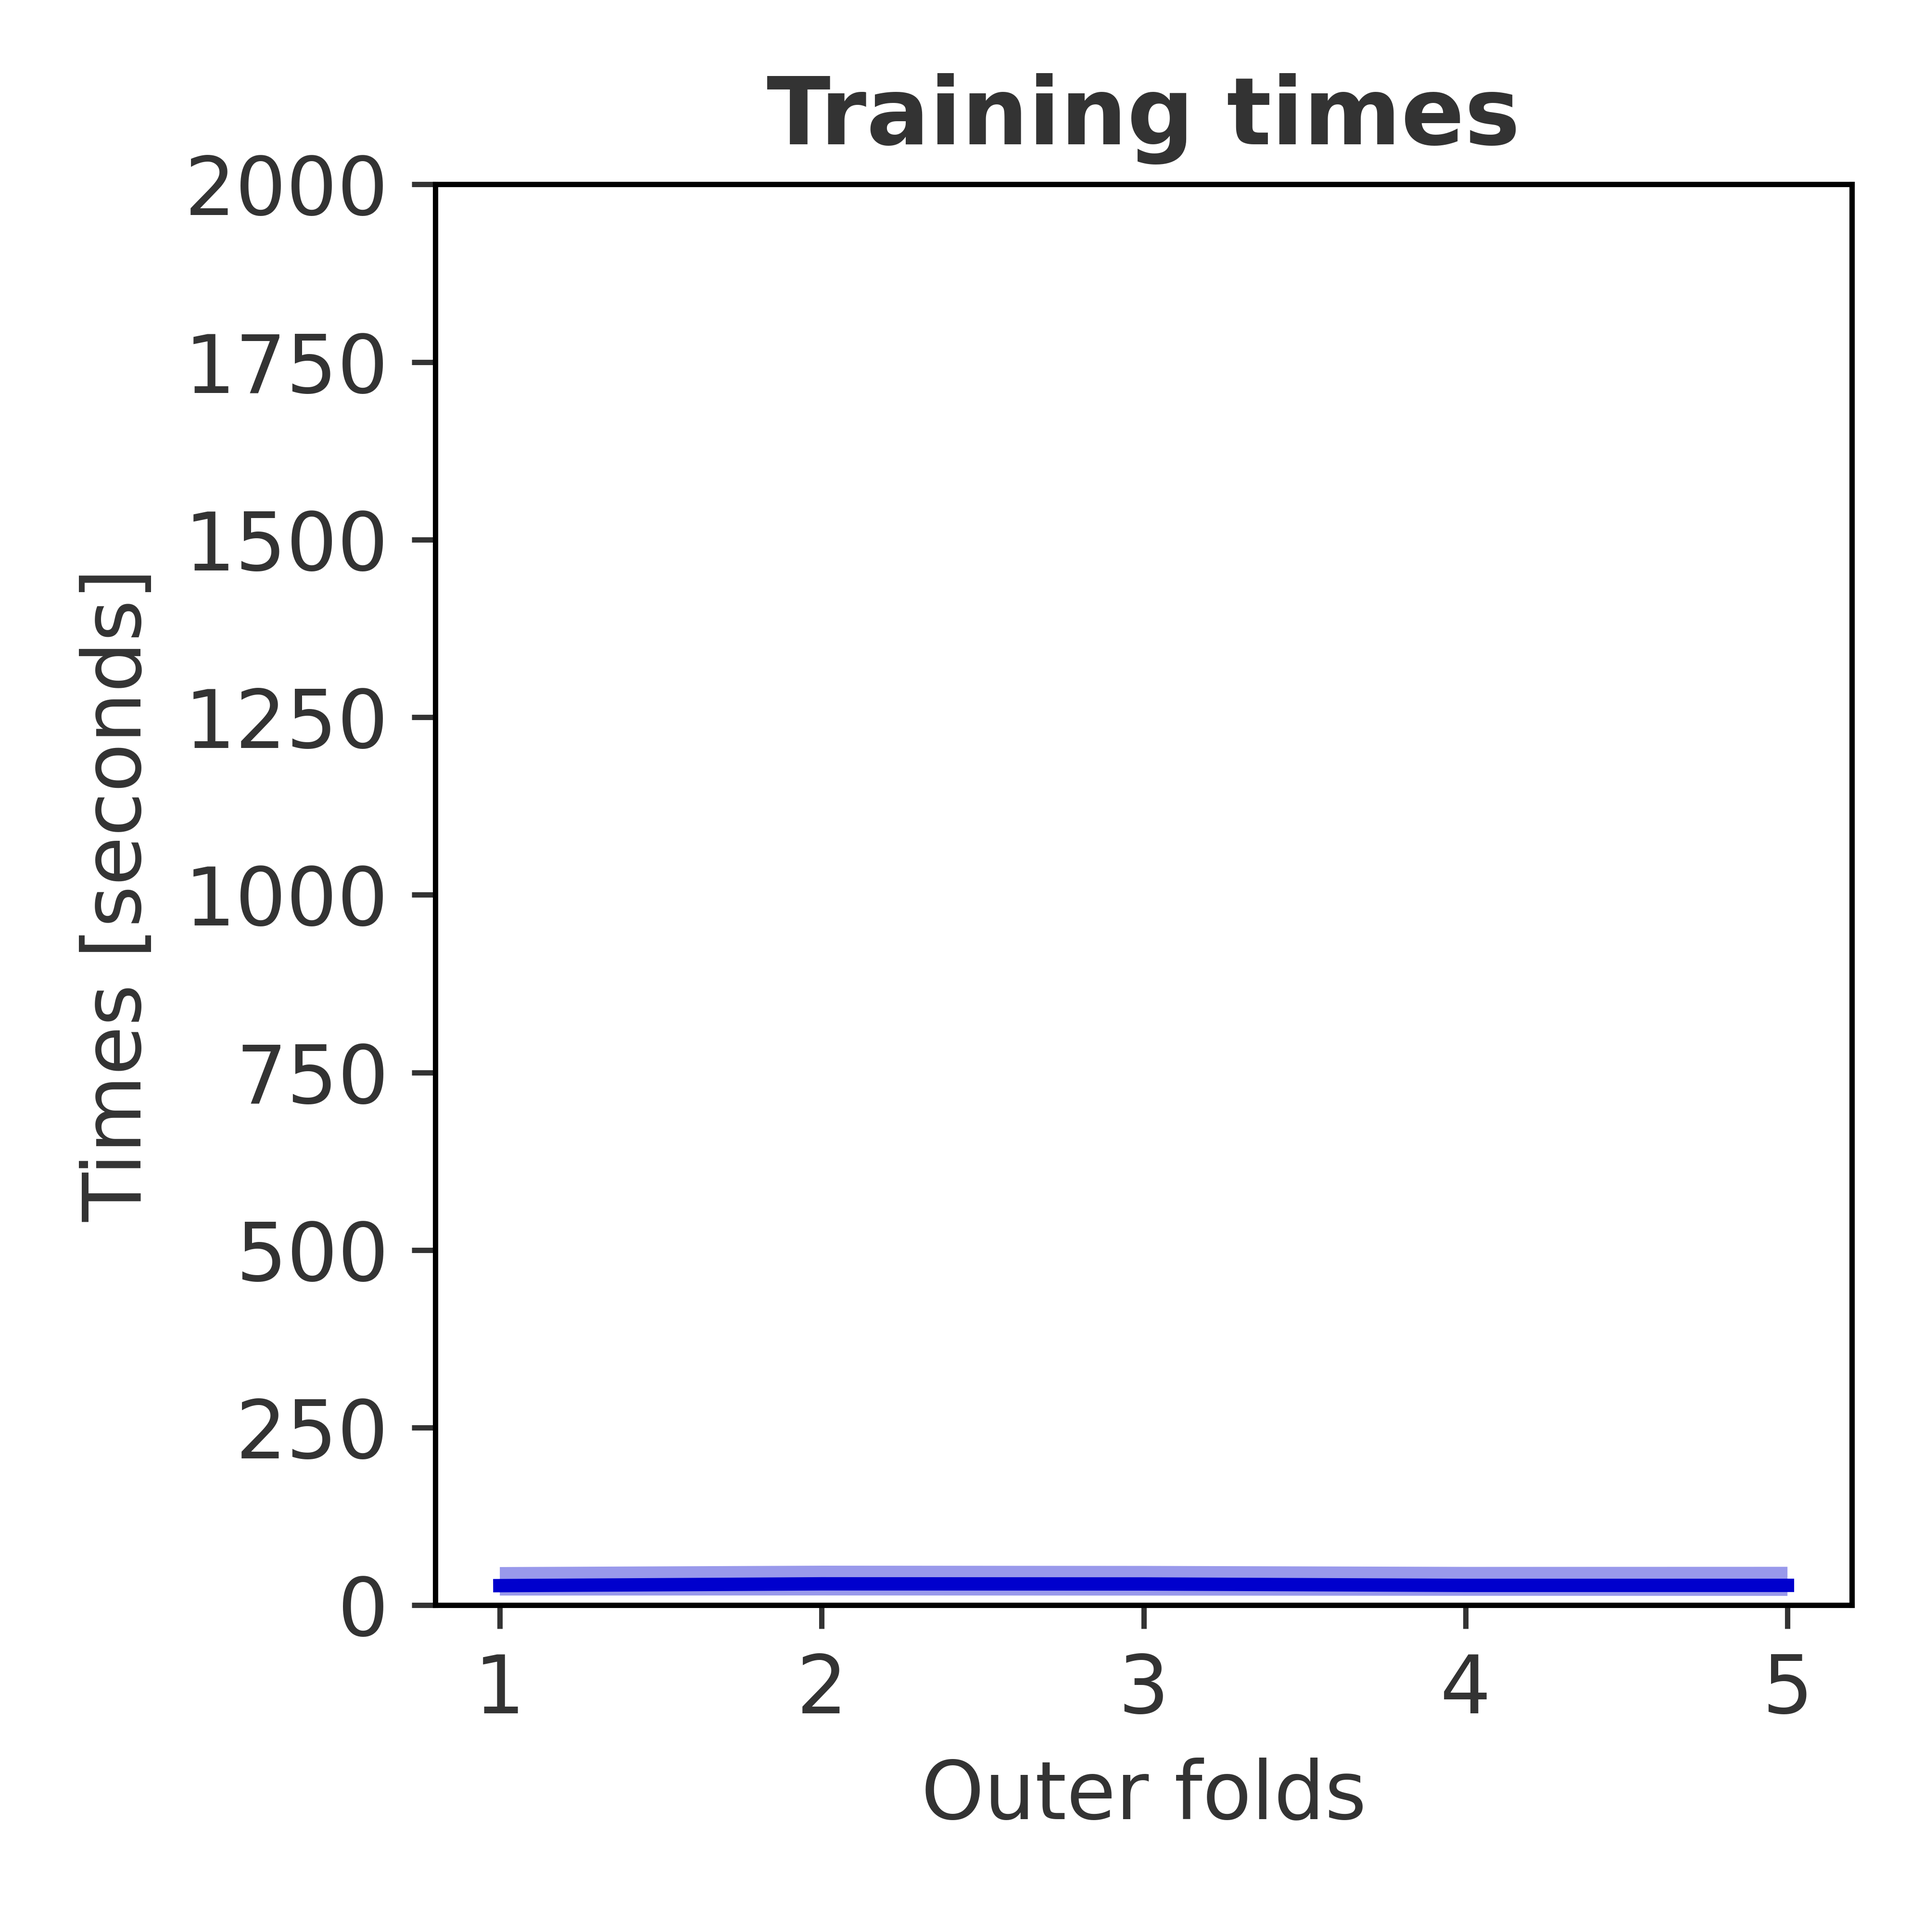
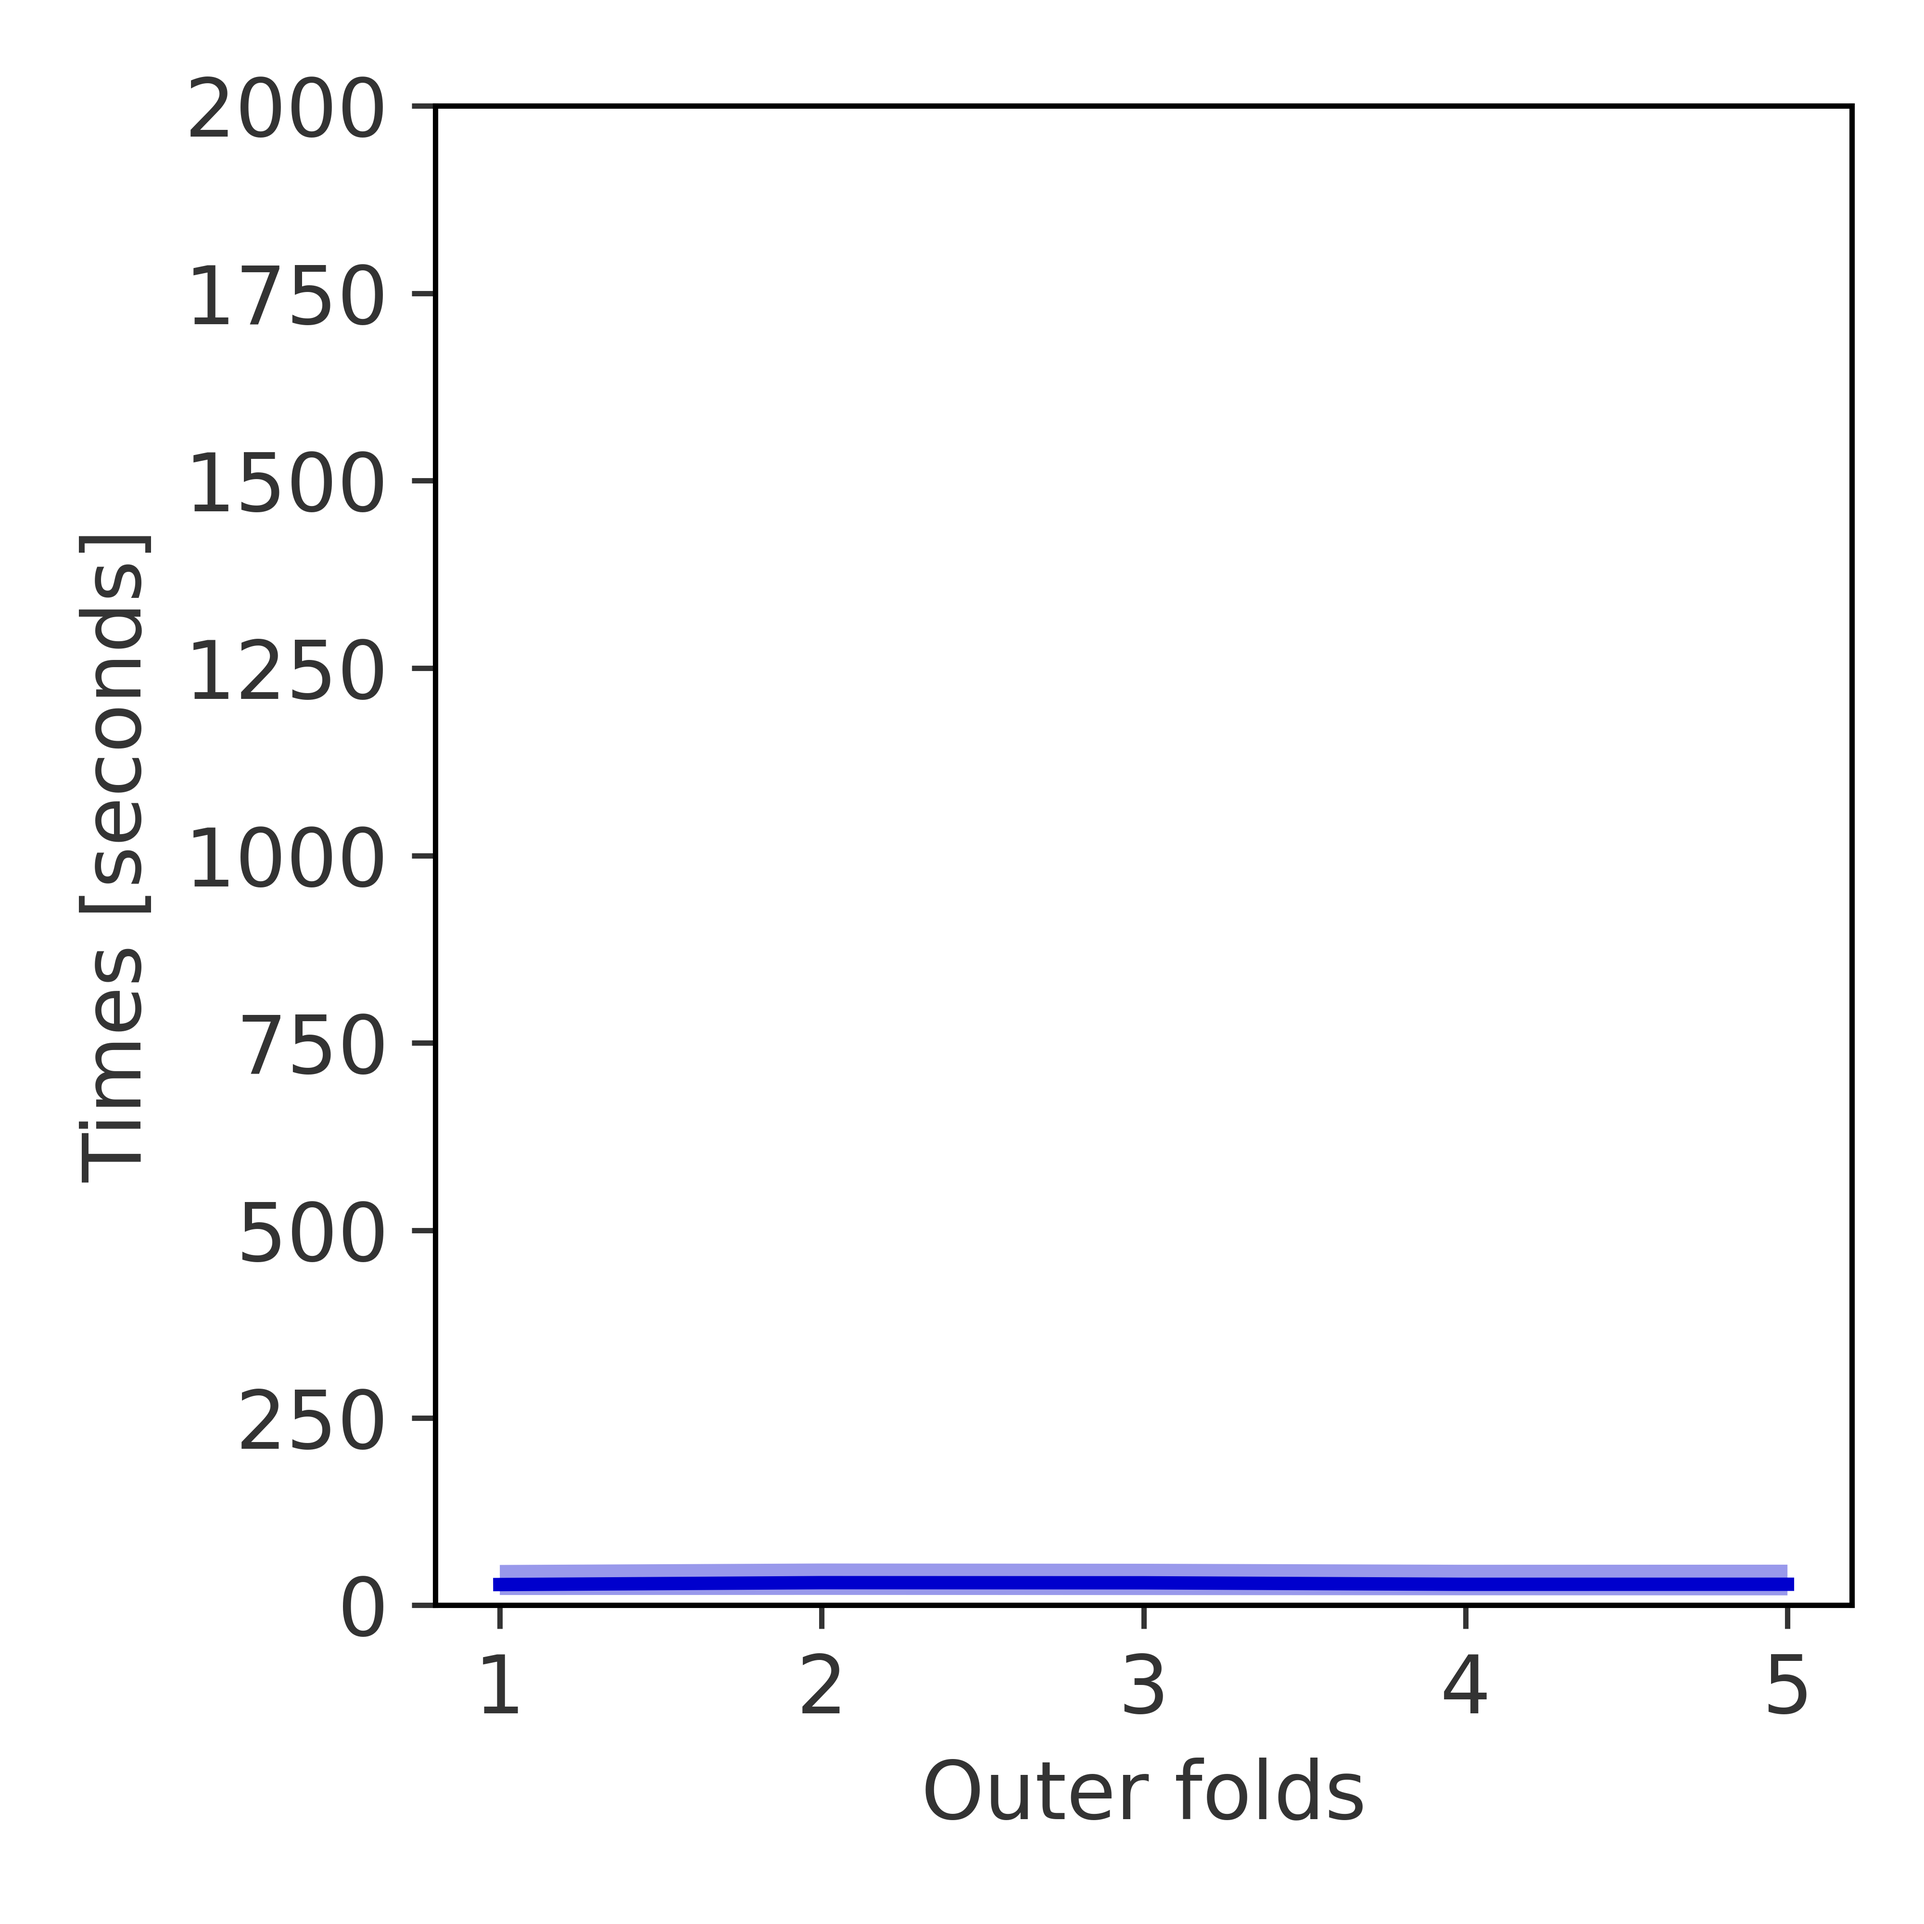
Improved optuna optimisation outcomes plots.

diff --git a/code/plot/22_prob_ff_hydro_short_fc_cv_optuna.py b/code/plot/22_prob_ff_hydro_short_fc_cv_optuna.py
@@ -66,7 +66,6 @@ for ind_ml, ml_trained in enumerate(ml_trained_list):
       plt.plot(np.arange(1, num_k_outer + 1), np.array(mean), color = colours_ml_trained, lw = 2)
       plt.plot(np.arange(1, num_k_outer + 1), np.array(median), "--", color = colours_ml_trained, lw = 2)
       plt.fill_between(np.arange(1, num_k_outer + 1), np.array(min), np.array(max, ), color = colours_ml_trained, alpha=0.4, edgecolor="none")
-      plt.title("Model performance", fontweight='bold', color="#333333", fontsize=14)
       plt.xlabel("Outer folds", color = "#333333", fontsize = 12)
       plt.ylabel(eval_metric.upper(), color = "#333333", fontsize = 12)
       plt.tick_params(axis='x', colors='#333333', labelsize=12)
@@ -101,7 +100,6 @@ for ind_ml, ml_trained in enumerate(ml_trained_list):
             
       plt.plot(np.arange(1, num_k_outer + 1), np.array(mean), color = colours_ml_trained, lw = 2)
       plt.fill_between(np.arange(1, num_k_outer + 1), np.array(min), np.array(max, ), color = colours_ml_trained, alpha=0.4, edgecolor="none")
-      plt.title("Training times", fontweight='bold', color="#333333", fontsize=14)
       plt.xlabel("Outer folds", color = "#333333", fontsize = 12)
       plt.ylabel("Times [seconds]", color = "#333333", fontsize = 12)
       plt.tick_params(axis='x', colors='#333333', labelsize=12)
@@ -149,7 +147,6 @@ for ind_ml, ml_trained in enumerate(ml_trained_list):
         "capsize": 4,                       # (optional) cap size override
         "capthick": 1.2                     # (optional) cap line width
     })
-      plt.title("Parameter importance", fontweight='bold', color="#333333", fontsize=14)
       plt.xlabel("Normalised abs(Pearson's r coefficient)", color = "#333333", fontsize = 12)
       plt.tick_params(axis='x', colors='#333333', labelsize=12)
       plt.tick_params(axis='y', colors='#333333', labelsize=12)
@@ -177,7 +174,6 @@ for ind_ml, ml_trained in enumerate(ml_trained_list):
             plt.plot(df["number"]+1, df["value"], "o--", markersize=2, lw=1, color=colours_ml_trained, alpha = alpha[ind_k])
             plt.plot(df["number"]+1, df["value"].cummax(), linestyle="-", lw = 2.5, color=colours_ml_trained, alpha = alpha[ind_k])
       
-      plt.title("Optimisation history", fontweight='bold', color="#333333", fontsize=14)
       plt.xlabel("Trial number", color = "#333333", fontsize = 12)
       plt.ylabel(eval_metric, color = "#333333", fontsize = 12)
       plt.tick_params(axis='x', colors='#333333', labelsize=12)
